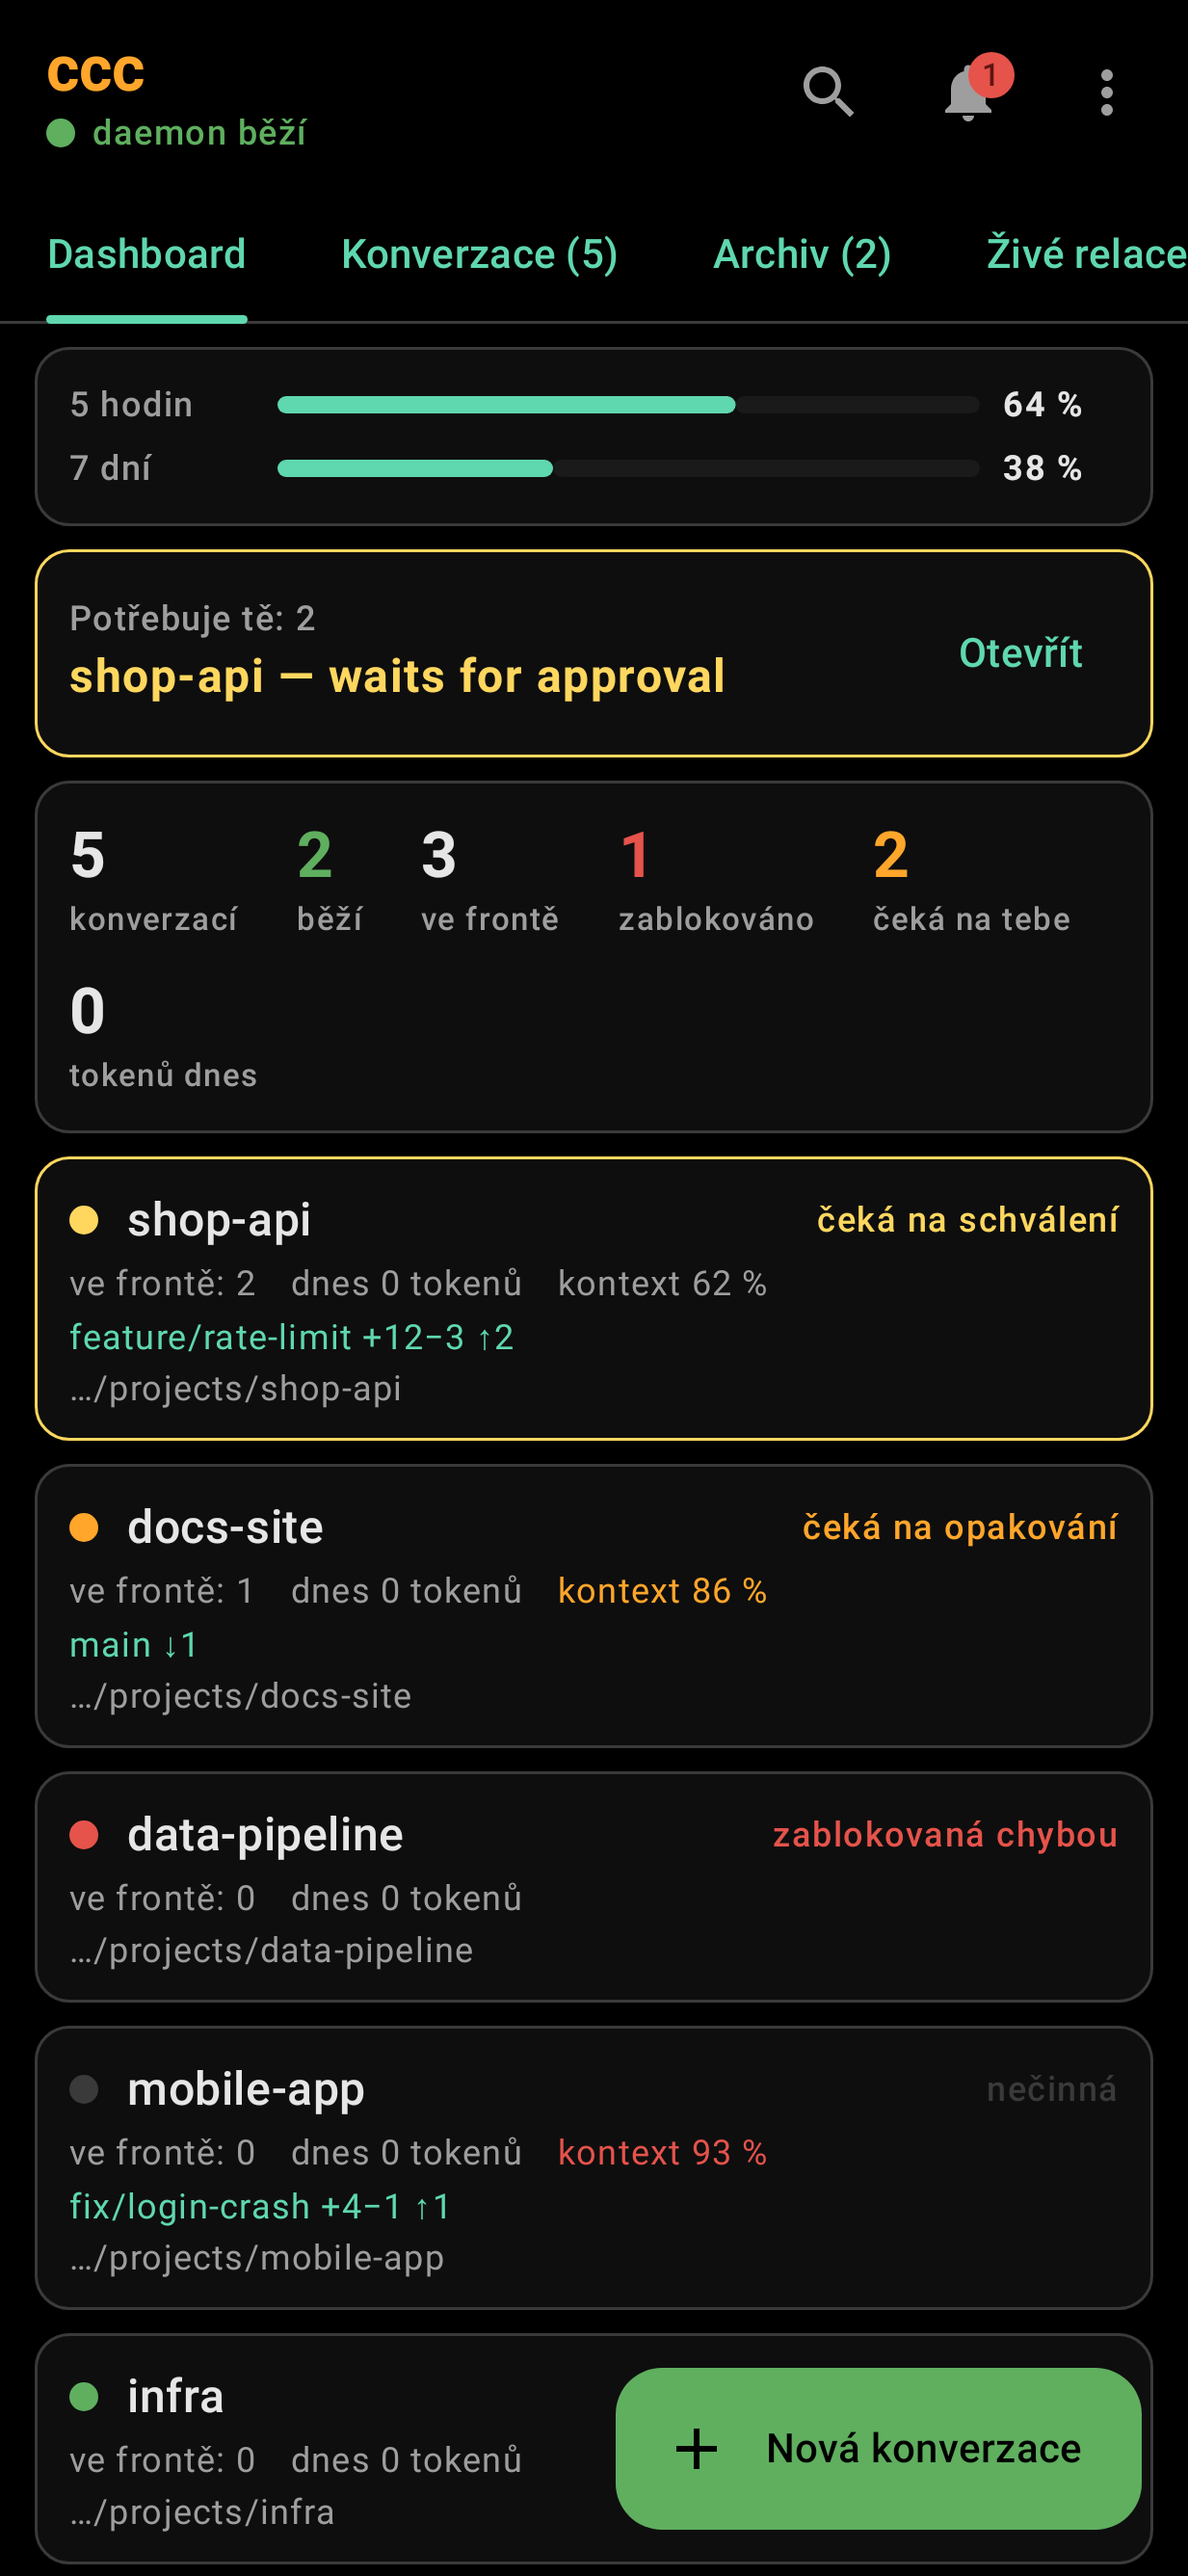
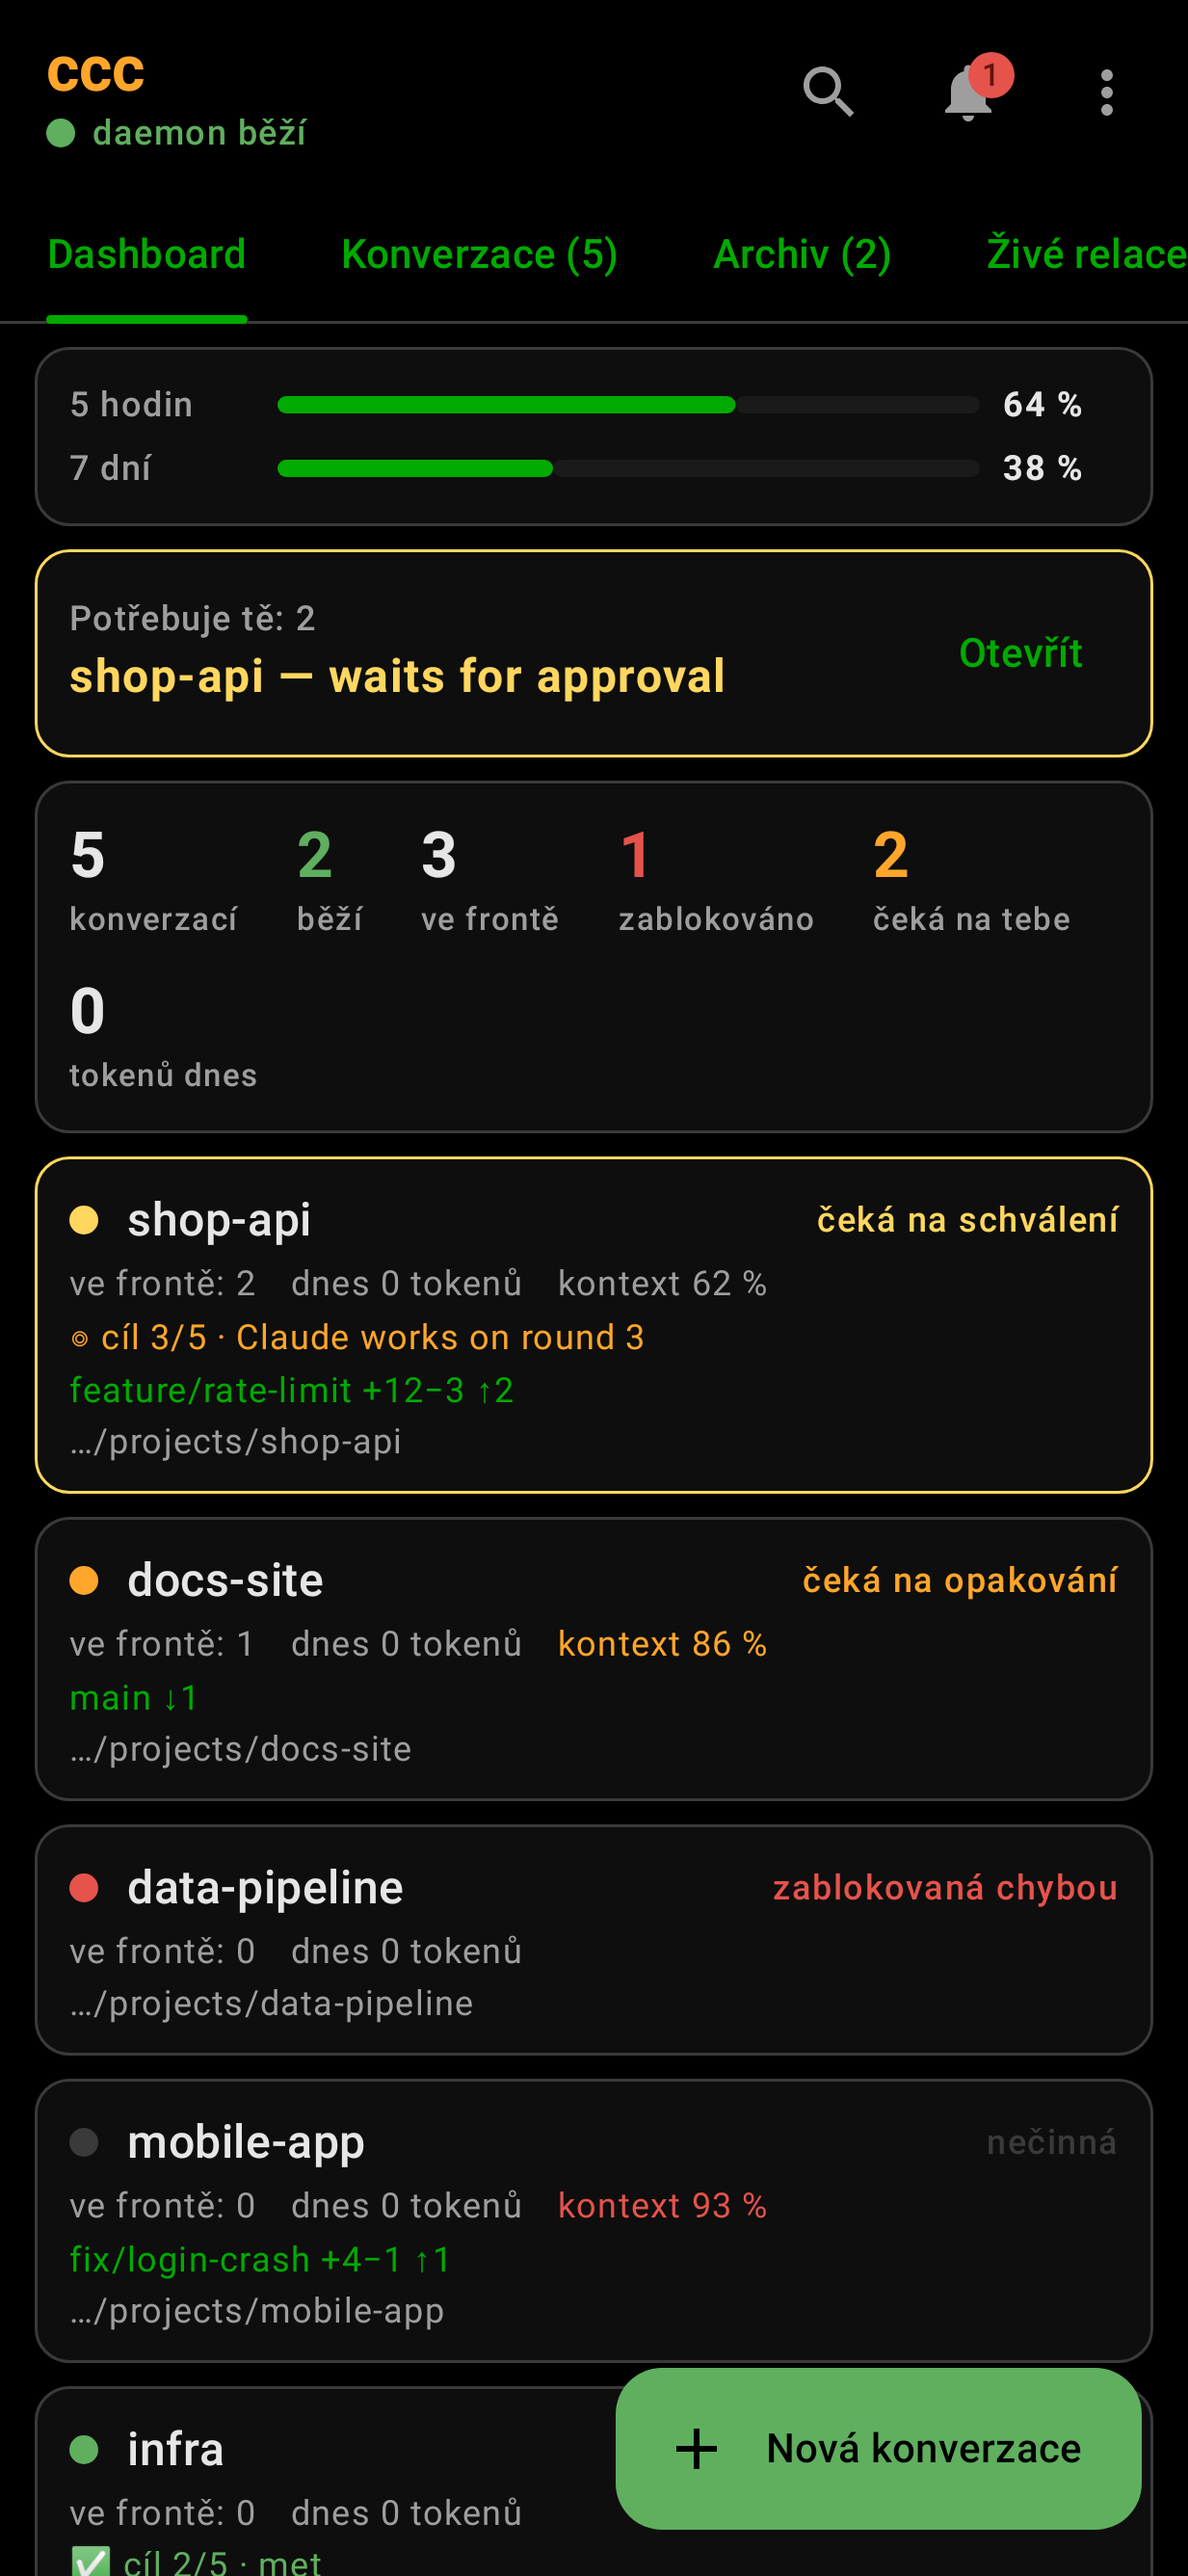
Dashboard and the app's list show a conversation's goal loop
A Goal column in the TUI Dashboard (running: round / rounds; for a day after
it ended: how it ended), a `goal` object in GET /conversations and the same
line in the Android Dashboard. One query for the newest goal of every
conversation (storage.latest_goals).

diff --git a/app/src/test/java/io/github/luquas95/ccc/ui/ScreenshotsTest.kt b/app/src/test/java/io/github/luquas95/ccc/ui/ScreenshotsTest.kt
@@ -29,6 +29,7 @@ import io.github.luquas95.ccc.data.GitState
 import io.github.luquas95.ccc.data.ListDetail
 import io.github.luquas95.ccc.data.ConversationTokens
 import io.github.luquas95.ccc.data.DayTokens
+import io.github.luquas95.ccc.data.GoalBrief
 import io.github.luquas95.ccc.data.Goals
 import io.github.luquas95.ccc.data.LiveSession
 import io.github.luquas95.ccc.data.ModelTokens
@@ -424,7 +425,8 @@ open class ScreenshotsTest {
             conversations = listOf(
                 Conversation(1, "shop-api", "/home/you/projects/shop-api", "running", "interactive", pending = 2,
                     needsApproval = true, group = Group("own:Release 2.1", "Release 2.1"),
-                    context = ContextFill(124_000, 62, ""), git = GitState("feature/rate-limit", 12, 3, 2, 0)),
+                    context = ContextFill(124_000, 62, ""), git = GitState("feature/rate-limit", 12, 3, 2, 0),
+                    goal = GoalBrief(7, "running", "running", "Claude works on round 3", 3, 5)),
                 Conversation(2, "docs-site", "/home/you/projects/docs-site", "waiting_retry", "interactive", pending = 1,
                     group = Group("own:Release 2.1", "Release 2.1"),
                     context = ContextFill(172_000, 86, "warn"), git = GitState("main", 0, 0, 0, 1)),
@@ -434,7 +436,8 @@ open class ScreenshotsTest {
                     group = Group("project:/home/you/projects/mobile-app", "mobile-app"),
                     context = ContextFill(186_000, 93, "danger"), git = GitState("fix/login-crash", 4, 1, 1, 0)),
                 Conversation(5, "infra", "/home/you/projects/infra", "running", "remote_control",
-                    group = Group("project:/home/you/projects/infra", "infra")),
+                    group = Group("project:/home/you/projects/infra", "infra"),
+                    goal = GoalBrief(8, "passed", "met", "", 2, 5)),
             ),
         )
 

diff --git a/app/src/test/java/io/github/luquas95/ccc/data/CccApiTest.kt b/app/src/test/java/io/github/luquas95/ccc/data/CccApiTest.kt
@@ -73,6 +73,27 @@ class CccApiTest {
     }
 
     @Test
+    fun `reads the latest goal loop of a conversation for the Dashboard`() = runBlocking {
+        answers["conversations"] = 200 to """[{"id": 1, "name": "shop", "path": "/p", "status": "running",
+            "delivery_mode": "interactive", "goal": {"id": 7, "status": "running", "status_label": "running",
+            "phase_label": "Claude works on round 3", "round": 3, "max_rounds": 5, "finished_at": null}},
+            {"id": 2, "name": "docs", "path": "/d", "status": "idle", "delivery_mode": "headless", "goal": null},
+            {"id": 3, "name": "api", "path": "/a", "status": "idle", "delivery_mode": "headless",
+            "goal": {"id": 8, "status": "passed", "status_label": "met", "phase_label": "", "round": 2, "max_rounds": 5}}]"""
+
+        val (shop, docs, api) = api().conversations()
+
+        assertEquals(true, shop.goal?.running)
+        assertEquals("◎", shop.goal?.icon)
+        assertEquals("Claude works on round 3", shop.goal?.phaseLabel)
+        assertEquals(3, shop.goal?.round)
+        assertEquals(5, shop.goal?.maxRounds)
+        assertNull(docs.goal)
+        assertEquals("✅", api.goal?.icon)
+        assertEquals("met", api.goal?.statusLabel)
+    }
+
+    @Test
     fun `reads the update a new ccc version brings and applies it`() = runBlocking {
         answers["status"] = 200 to """{"version": "0.1.0", "language": "en", "daemon_running": true, "conversations": 1,
             "running": 0, "needs_approval": 0, "android_build": 7,

diff --git a/app/src/main/java/io/github/luquas95/ccc/ui/ConversationsScreen.kt b/app/src/main/java/io/github/luquas95/ccc/ui/ConversationsScreen.kt
@@ -360,6 +360,20 @@ private fun DashboardRow(conversation: Conversation, onClick: () -> Unit) {
                     )
                 }
             }
+            conversation.goal?.let { goal ->
+                Text(
+                    stringResource(R.string.goal_line, goal.icon, goal.round, goal.maxRounds,
+                        if (goal.running) goal.phaseLabel else goal.statusLabel),
+                    style = MaterialTheme.typography.bodySmall,
+                    color = when (goal.status) {
+                        "running" -> CccColors.Waiting
+                        "passed" -> CccColors.Running
+                        "stopped" -> CccColors.Muted
+                        else -> CccColors.Error
+                    },
+                    maxLines = 1, overflow = TextOverflow.Ellipsis,
+                )
+            }
             conversation.git?.text?.takeIf { it.isNotEmpty() }?.let {
                 Text(it, style = MaterialTheme.typography.bodySmall, color = CccColors.Title, maxLines = 1, overflow = TextOverflow.Ellipsis)
             }

diff --git a/app/src/main/java/io/github/luquas95/ccc/data/Models.kt b/app/src/main/java/io/github/luquas95/ccc/data/Models.kt
@@ -68,8 +68,23 @@ data class Conversation(
     val group: Group? = null,
     val context: ContextFill? = null,
     val git: GitState? = null,
+    val goal: GoalBrief? = null,
 ) {
     val state: ConversationStatus get() = ConversationStatus.of(status)
+}
+
+/** Its latest goal loop for the list: while it runs and for a day after it ended (`goal` is null otherwise). */
+@Serializable
+data class GoalBrief(
+    val id: Int,
+    val status: String,
+    @SerialName("status_label") val statusLabel: String = "",
+    @SerialName("phase_label") val phaseLabel: String = "",
+    val round: Int = 1,
+    @SerialName("max_rounds") val maxRounds: Int = 1,
+) {
+    val running: Boolean get() = status == "running"
+    val icon: String get() = when (status) { "running" -> "◎"; "passed" -> "✅"; "stopped" -> "■"; "error" -> "✖"; else -> "⛔" }
 }
 
 /** How full the context window is; `level` is "", "warn" or "danger" by ccc's Settings thresholds. */
